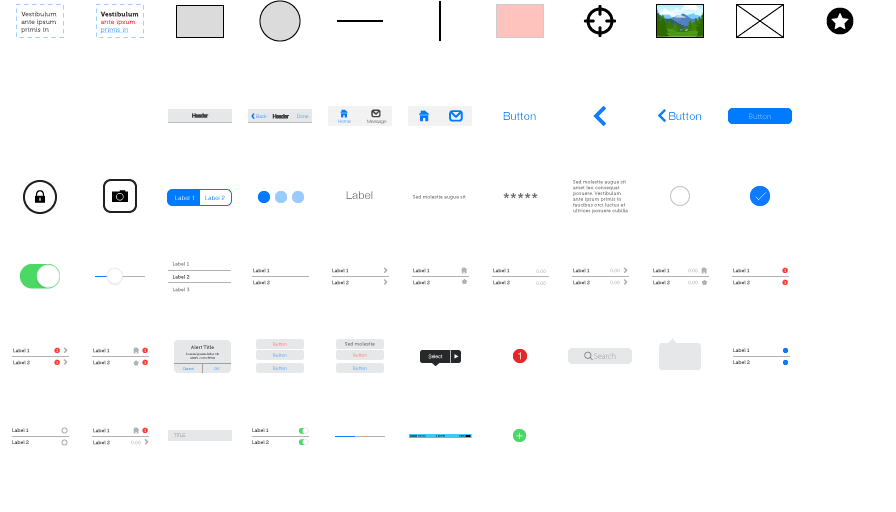
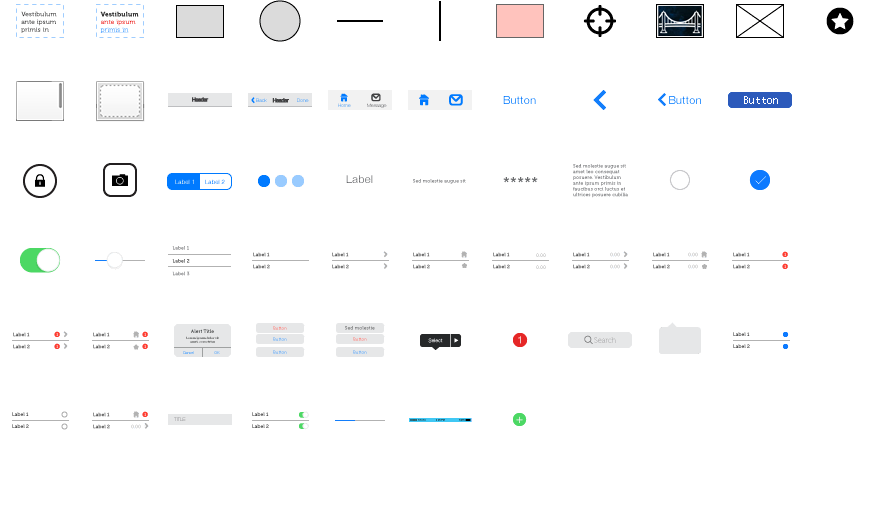
样式：UI Lib增加ImageView和ScrollView缩略图，修改热区缩略图

diff --git a/app/styles/main.css b/app/styles/main.css
@@ -148,10 +148,14 @@ i { font-style: normal; }
 .lib-list { display: -webkit-flex; display: flex; -webkit-flex: 1; flex: 1; -webkit-flex-flow: row wrap; flex-flow: row wrap; }
 .lib-list li { width: 100px; padding: 10px 0; border-right: 1px solid rgba(0,0,0,0.1); border-bottom: 1px solid rgba(0,0,0,0.1); box-sizing: border-box; font-size: 10px; cursor: pointer; text-align: center; }
 .lib-item-thumb { width: 80px; height: 50px; margin: 0 auto; background: url(../images/un-library.png) no-repeat; }
-.thumb-button { background-position:-720px -96px; }
-.thumb-hotspot { background-position:-480px 0; }
-.thumb-list { background-position:-160px -256px; }
-.thumb-toolbar { background-position:-240px -96px; }
+.thumb-button { background-position: -720px -80px; }
+.thumb-hotspot { background-position: -480px 0; }
+.thumb-list { background-position: -160px -256px; }
+.thumb-toolbar { background-position: -240px -80px; }
+.thumb-label { background-position: -320px -160px; }
+.thumb-view { background-position: -80px -80px; }
+.thumb-image-view { background-position: -640px 0; }
+.thumb-scroll-view { background-position: 0 -80px; }
 
 /* Package List */
 
